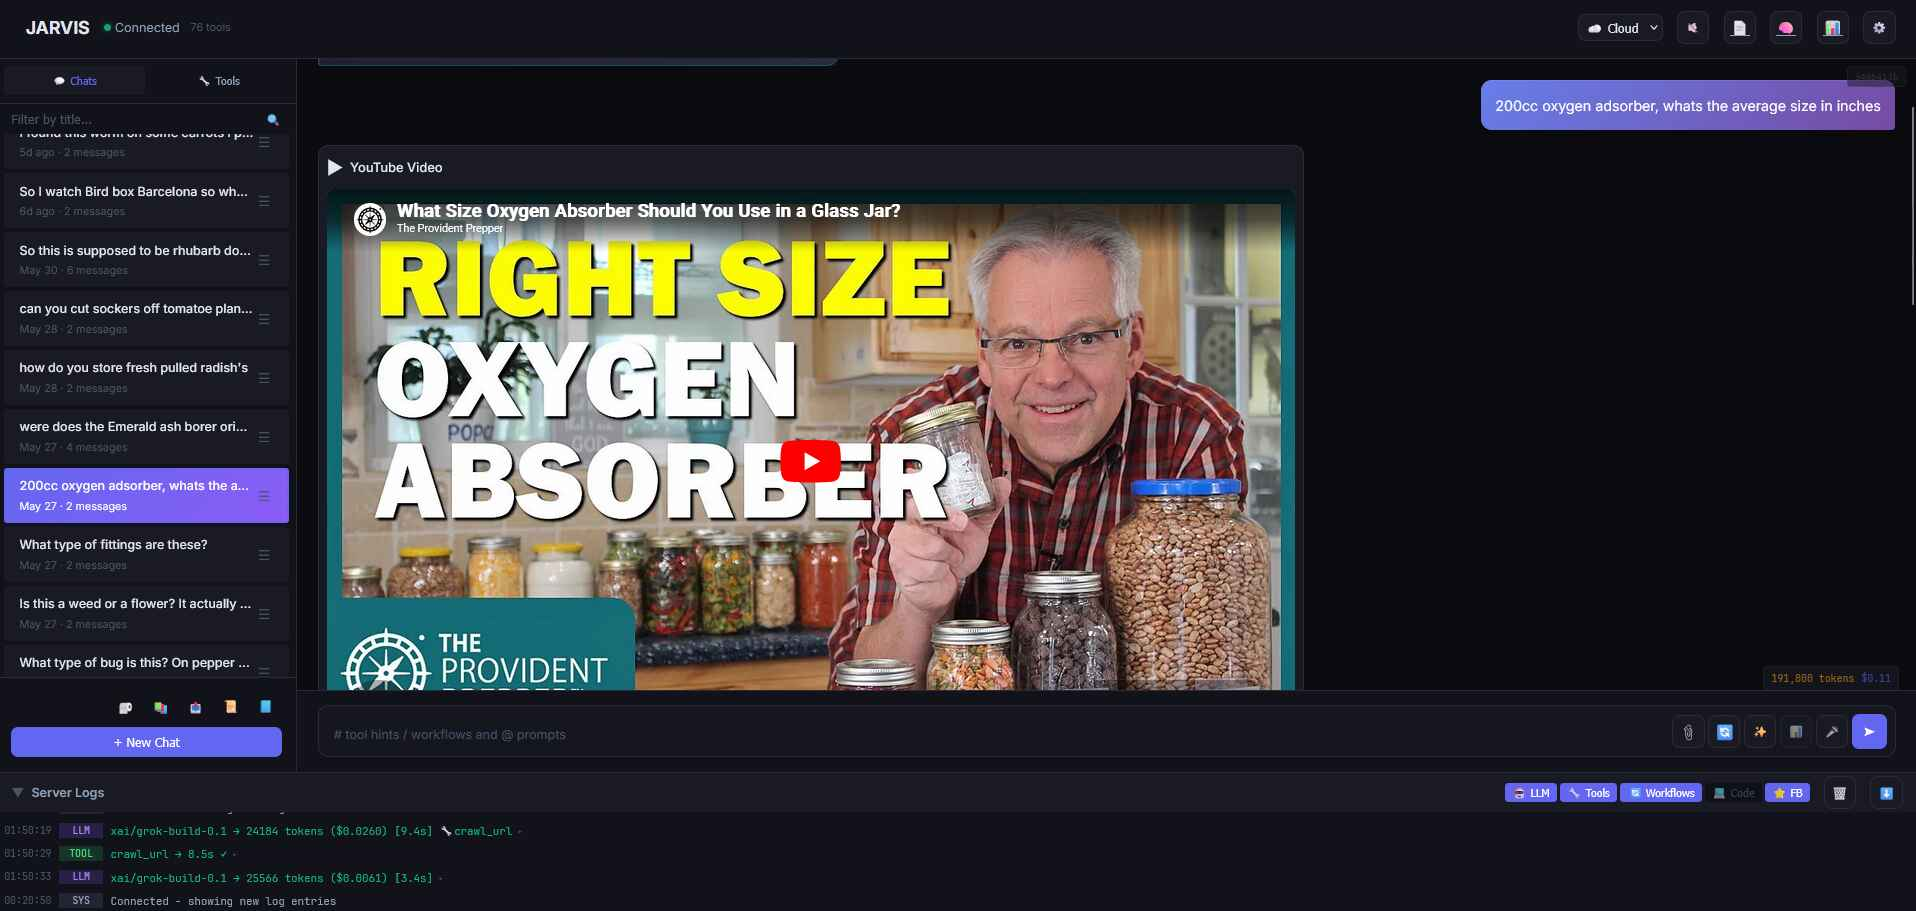
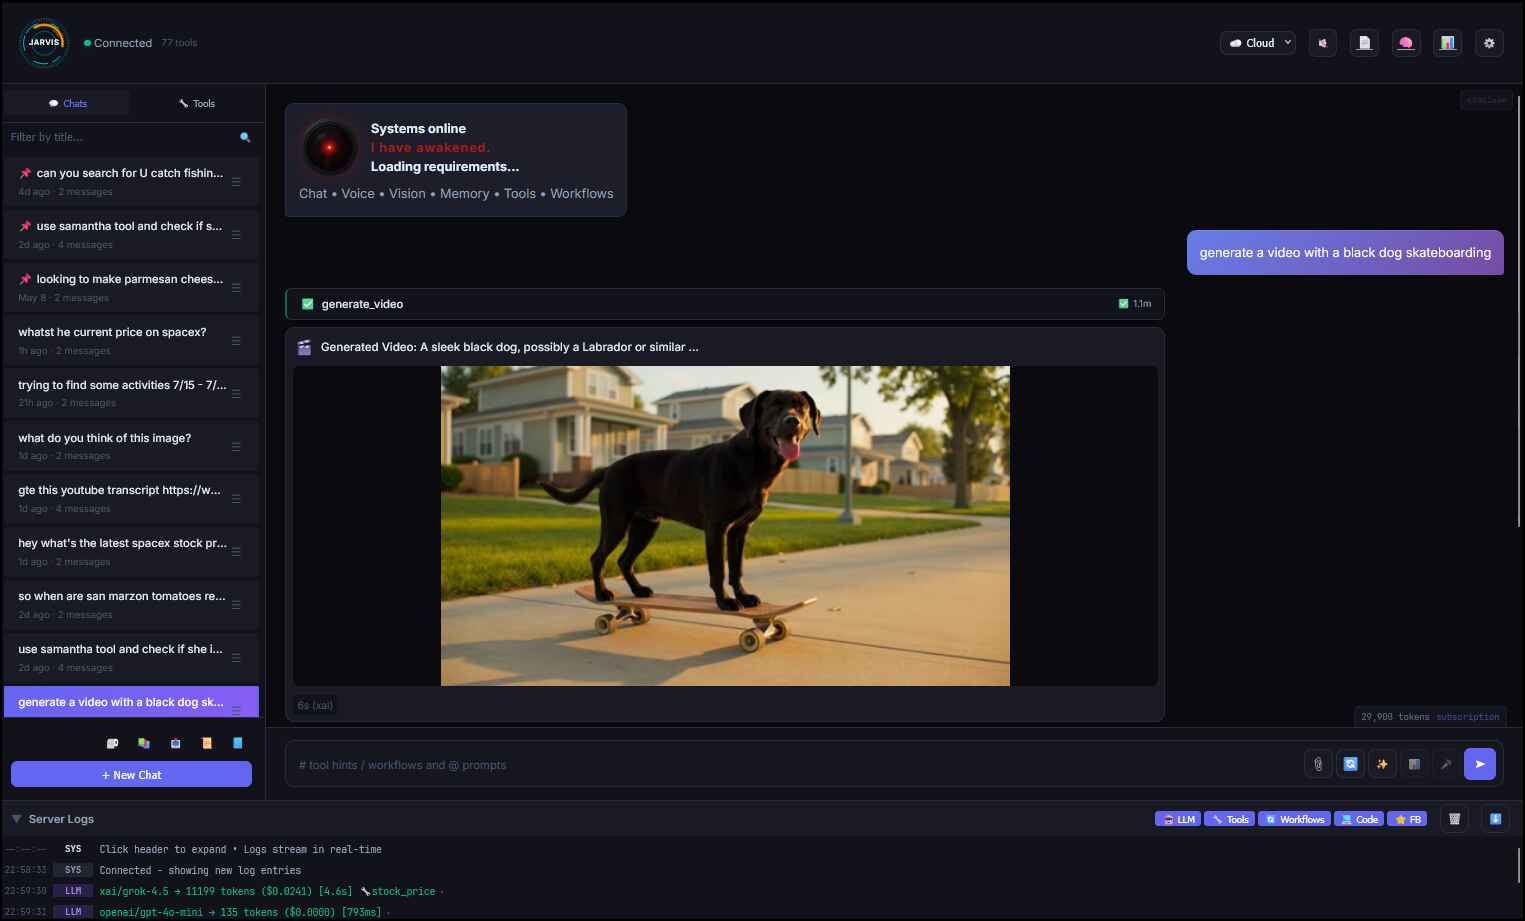
update readme image

diff --git a/docs/FUTURE_ENHANCEMENTS.md b/docs/FUTURE_ENHANCEMENTS.md
@@ -170,7 +170,7 @@ Jarvis: "From the Portland restaurants, here are the Italian options..."
 - Include in LLM context
 - Expire after idle timeout
 
-### 4) Anthropic SDK Consolidation (Stray Raw HTTP)
+### 4) Anthropic SDK Consolidation (Stray Raw HTTP) then we also have to do it for XAI, OpenAI and Olama Cloud because they all have functions for HTTP requests for analyze vision
 **Priority:** Low / housekeeping
 
 Main chat/tool path in `lib/llm_provider.py` already uses the Anthropic SDK (thinking, caching, native web search). A few stragglers still POST to `api.anthropic.com` directly:
@@ -257,7 +257,7 @@ It cannot retrieve account-level session or weekly usage, remaining quota, reset
 - [ollama/ollama#15663 — Expose account quota/usage details via the Cloud API](https://github.com/ollama/ollama/issues/15663) — closed as a duplicate of #12532; documents the missing headers/body/endpoint options
 - [ollama/ollama#16448 — API endpoint to check Cloud Usage/Quota limits](https://github.com/ollama/ollama/issues/16448) — closed as a duplicate of #12532
 
-### 8) Latency-Aware Status Updates Across Web, CLI, and Wake Word
+### 8) Latency-Aware Status Updates Across Web, CLI, and Wake Word - this is done
 **Priority:** Medium–High usability / latency
 **Status:** Implemented (2026-07-04); tune timing from live use
 
